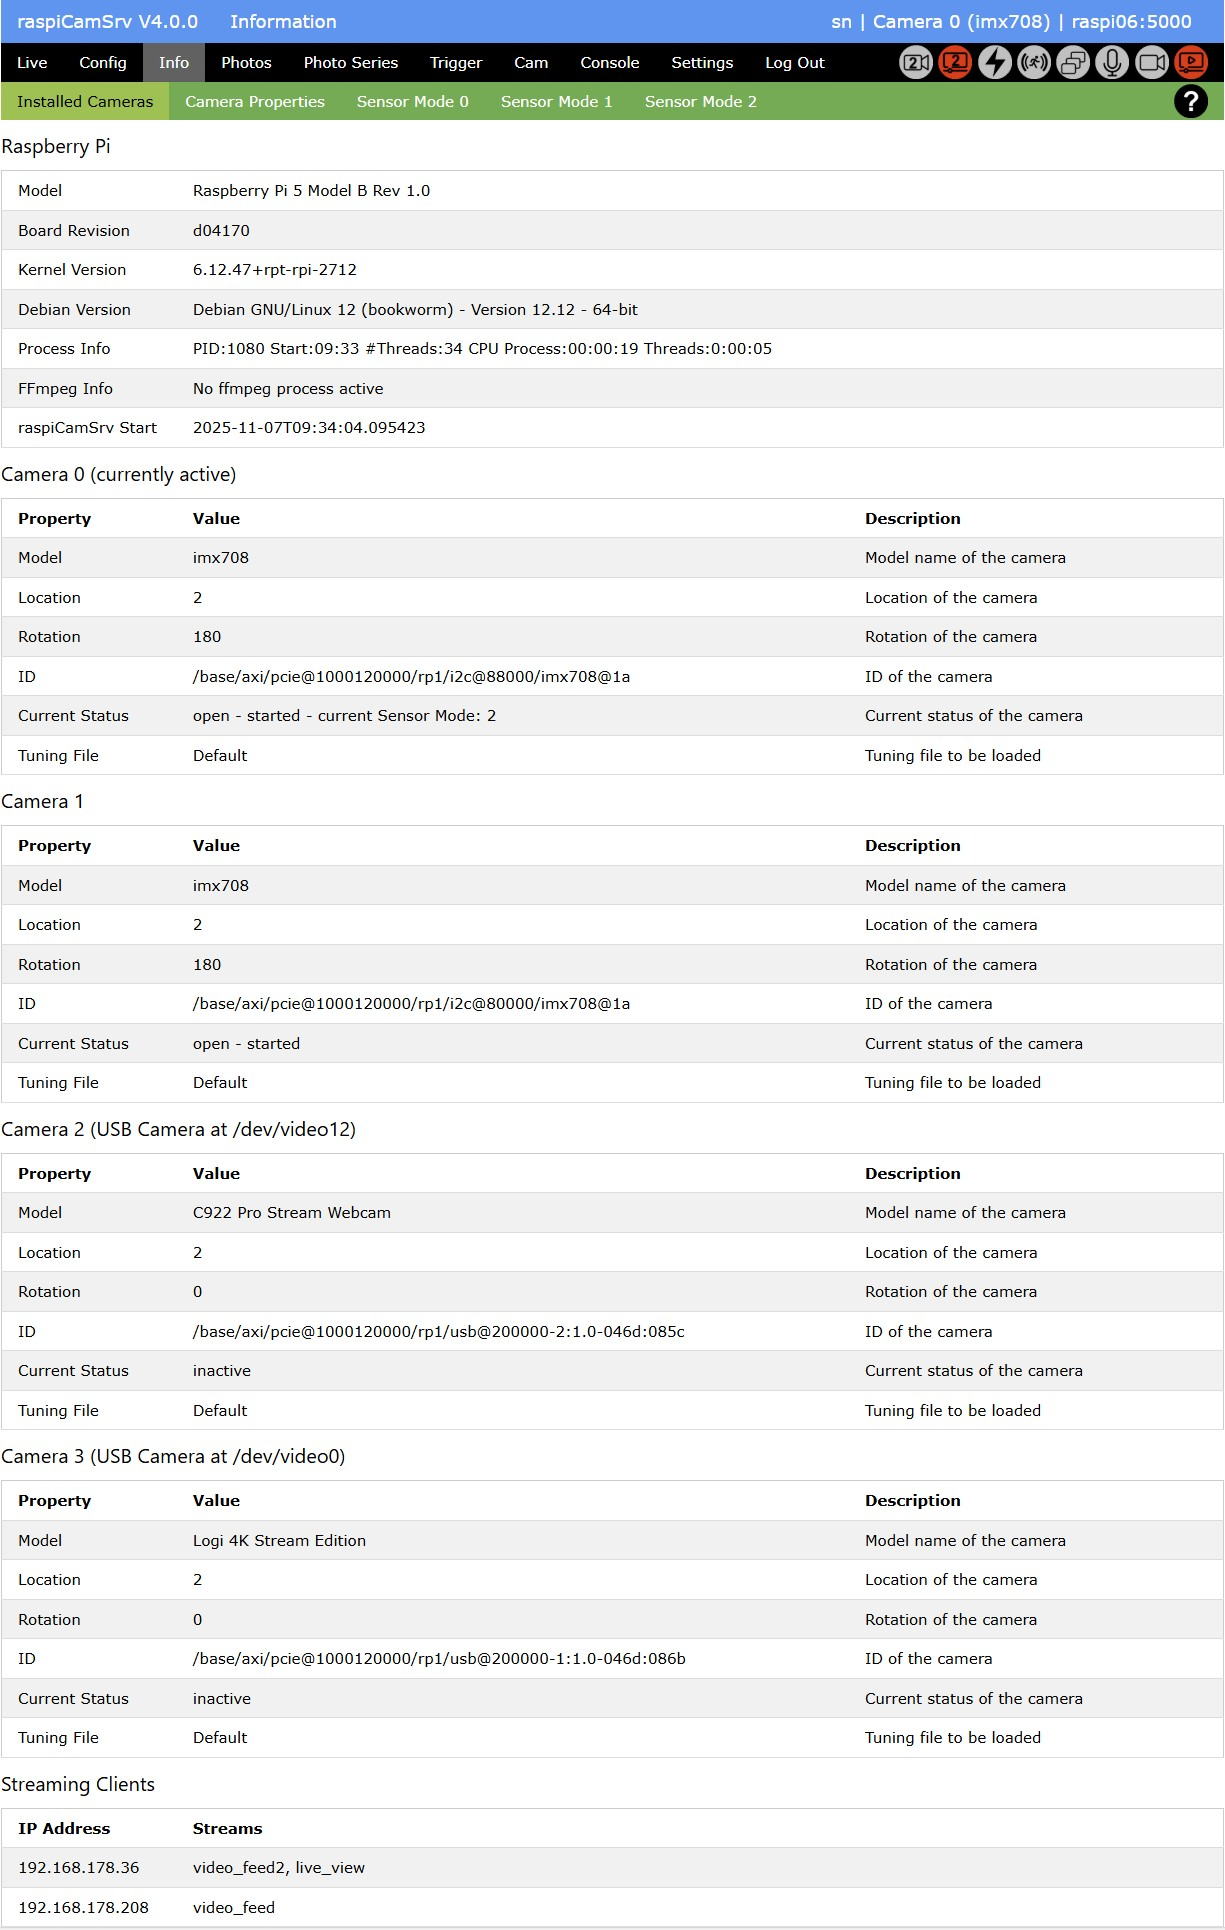
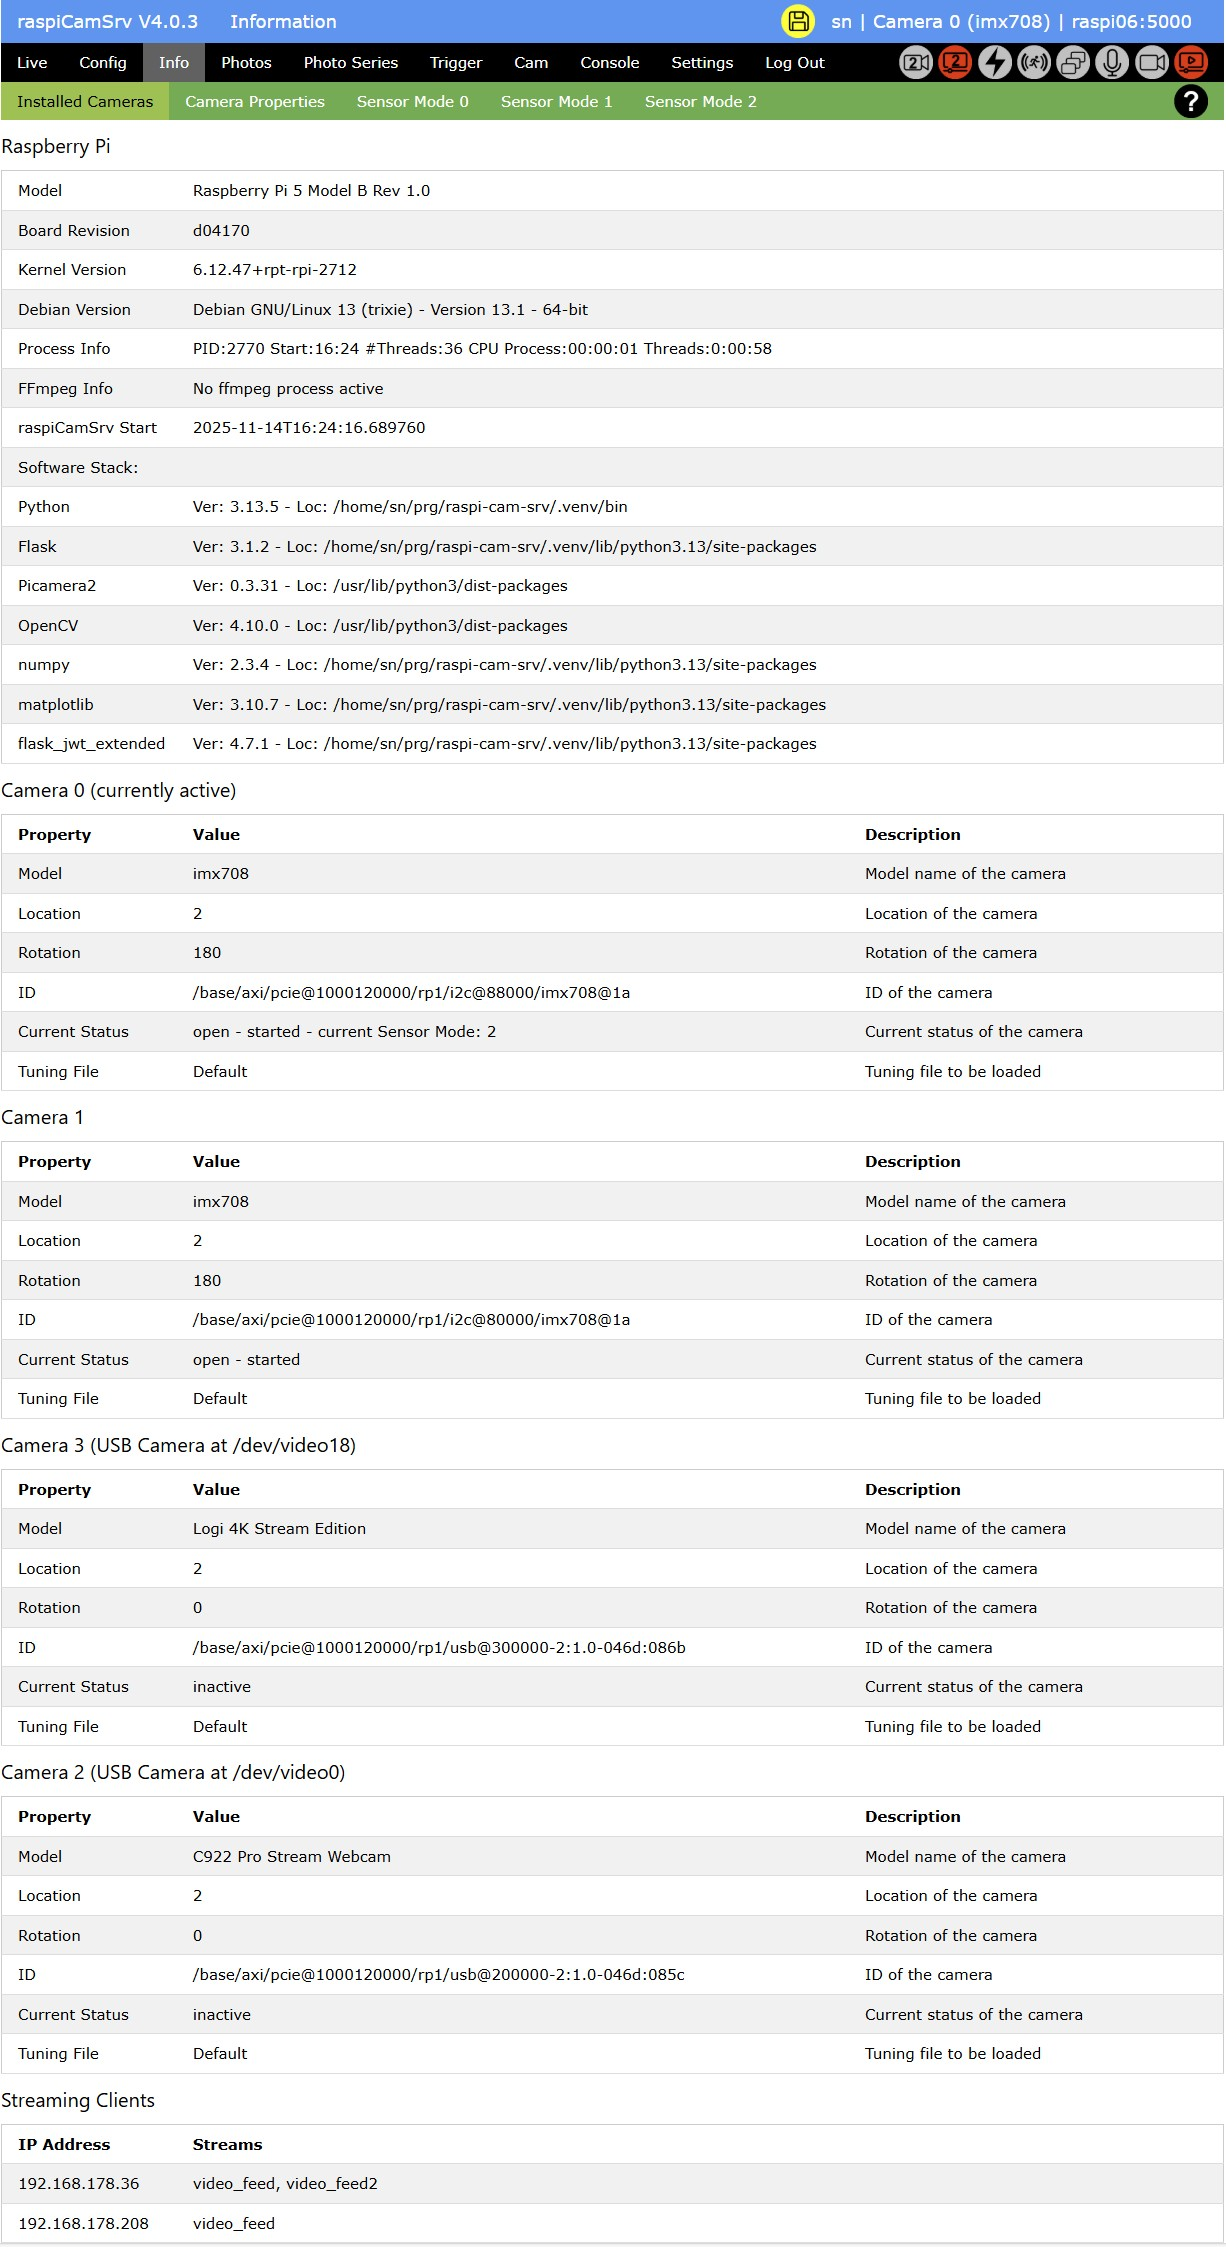
V4.0.3 - Info Software Stack

diff --git a/raspiCamSrv/templates/info/info.html b/raspiCamSrv/templates/info/info.html
@@ -95,6 +95,46 @@
                 <td>{{sc.serverStartTimeStr}}</td>
                 <td></td>
             </tr>
+            <tr>
+                <td>Software Stack:</td>
+                <td></td>
+                <td></td>
+            </tr>
+            <tr>
+                <td>Python</td>
+                <td>{{sc.pythonInfo}}</td>
+                <td></td>
+            </tr>
+            <tr>
+                <td>Flask</td>
+                <td>{{sc.flaskInfo}}</td>
+                <td></td>
+            </tr>
+            <tr>
+                <td>Picamera2</td>
+                <td>{{sc.picamera2Info}}</td>
+                <td></td>
+            </tr>
+            <tr>
+                <td>OpenCV</td>
+                <td>{{sc.openCvInfo}}</td>
+                <td></td>
+            </tr>
+            <tr>
+                <td>numpy</td>
+                <td>{{sc.numpyInfo}}</td>
+                <td></td>
+            </tr>
+            <tr>
+                <td>matplotlib</td>
+                <td>{{sc.matplotlibInfo}}</td>
+                <td></td>
+            </tr>
+            <tr>
+                <td>flask_jwt_extended</td>
+                <td>{{sc.flask_jwt_extended}}</td>
+                <td></td>
+            </tr>
         </table>
         {% for cam in cs %}
         {% if cam.num == sc.activeCamera %}

diff --git a/raspiCamSrv/camCfg.py b/raspiCamSrv/camCfg.py
@@ -19,6 +19,7 @@ import zoneinfo
 from secrets import token_urlsafe
 import threading
 from time import sleep
+import importlib
 
 logger = logging.getLogger(__name__)
 
@@ -5224,6 +5225,141 @@ class ServerConfig():
                             if pin in pins:
                                 pins.remove(pin)
         return pins
+        
+    @property
+    def pythonInfo(self) -> str:
+        """Get Python version and location
+        """
+        info = ""
+        try:
+            import sys
+            version = f"{sys.version_info.major}.{sys.version_info.minor}.{sys.version_info.micro}"
+            ex = sys.executable
+            pex = Path(ex)
+            path = pex.parent
+            info = f"Ver: {version} - Loc: {path}"
+
+        except Exception as e:
+            info = f"Error: {e}"
+        return info
+
+    @property
+    def flaskInfo(self) -> str:
+        """Get version and location of Flask module
+        """
+        info = ""
+        try:
+            import flask
+            version = importlib.metadata.version("flask")
+            ex = os.path.dirname(flask.__file__)
+            pex = Path(ex)
+            path = pex.parent
+            info = f"Ver: {version} - Loc: {path}"
+
+        except ModuleNotFoundError as e:
+            info = "Module not found"
+        except Exception as e:
+            info = f"Error: {e}"
+
+        return info
+
+    @property
+    def picamera2Info(self) -> str:
+        """Get version and location of picamera2 module
+        """
+        info = ""
+        try:
+            import picamera2
+            version = importlib.metadata.version("picamera2")
+            ex = os.path.dirname(picamera2.__file__)
+            pex = Path(ex)
+            path = pex.parent
+            info = f"Ver: {version} - Loc: {path}"
+
+        except ModuleNotFoundError as e:
+            info = "Module not found"
+        except Exception as e:
+            info = f"Error: {e}"
+
+        return info
+
+    @property
+    def openCvInfo(self) -> str:
+        """Get version and location of openCV module
+        """
+        info = ""
+        try:
+            import cv2
+            version = cv2.__version__
+            path = os.path.dirname(cv2.__file__)
+            info = f"Ver: {version} - Loc: {path}"
+
+        except ModuleNotFoundError as e:
+            info = "Module not found"
+        except Exception as e:
+            info = f"Error: {e}"
+
+        return info
+
+    @property
+    def numpyInfo(self) -> str:
+        """Get version and location of numpy module
+        """
+        info = ""
+        try:
+            import numpy
+            version = importlib.metadata.version("numpy")
+            ex = os.path.dirname(numpy.__file__)
+            pex = Path(ex)
+            path = pex.parent
+            info = f"Ver: {version} - Loc: {path}"
+
+        except ModuleNotFoundError as e:
+            info = "Module not found"
+        except Exception as e:
+            info = f"Error: {e}"
+
+        return info
+
+    @property
+    def matplotlibInfo(self) -> str:
+        """Get version and location of matplotlib module
+        """
+        info = ""
+        try:
+            import matplotlib
+            version = importlib.metadata.version("matplotlib")
+            ex = os.path.dirname(matplotlib.__file__)
+            pex = Path(ex)
+            path = pex.parent
+            info = f"Ver: {version} - Loc: {path}"
+
+        except ModuleNotFoundError as e:
+            info = "Module not found"
+        except Exception as e:
+            info = f"Error: {e}"
+
+        return info
+
+    @property
+    def flask_jwt_extended(self) -> str:
+        """Get version and location of flask_jwt_extended module
+        """
+        info = ""
+        try:
+            import flask_jwt_extended
+            version = importlib.metadata.version("flask_jwt_extended")
+            ex = os.path.dirname(flask_jwt_extended.__file__)
+            pex = Path(ex)
+            path = pex.parent
+            info = f"Ver: {version} - Loc: {path}"
+
+        except ModuleNotFoundError as e:
+            info = "Module not found"
+        except Exception as e:
+            info = f"Error: {e}"
+
+        return info
 
     def _checkModule(self, moduleName: str):
         logger.debug("_checkModule for module: %s", moduleName)

diff --git a/raspiCamSrv/version.py b/raspiCamSrv/version.py
@@ -1,1 +1,1 @@
-version="V4.0.2"
+version="V4.0.3"

diff --git a/docs/Information.md b/docs/Information.md
@@ -33,6 +33,8 @@ The time shown here is the system time at the moment when the check for time syn
 raspiCamSrv analyzes the output of command ```timedatectl``` to check the system clock synchronization status.    
 If this check fails or times out (60 sec), raspiCamSrv will start nevertheless. In this case, the information "System time not synced at raspiCamSrv start" will be shown here.
 
+*Software Stack* shows information on installed packages with Verion (*Ver*) and the path from which the packages were loaded (*Loc*).
+
 ### Camera x
 
 The tab lists all cameras currently connected to the system.

diff --git a/docs/ReleaseNotes.md b/docs/ReleaseNotes.md
@@ -39,6 +39,12 @@ In case that the server did not start correctly or if you see an unexpected beha
 - If it exists, remove it:<br>```rm _loadConfigOnStart.txt```
 - Then repeat step 4, above
 
+## V4.0.3
+
+### Extension
+
+- In the [Info](./Information.md) dialog, the section [Raspberry Pi](./Information.md#installed-cameras) was extended with information on the software stack, which can be helpful analyzing errors which could occur with specific versions or installation details.
+
 ## V4.0.2
 
 ### Bugfixes
